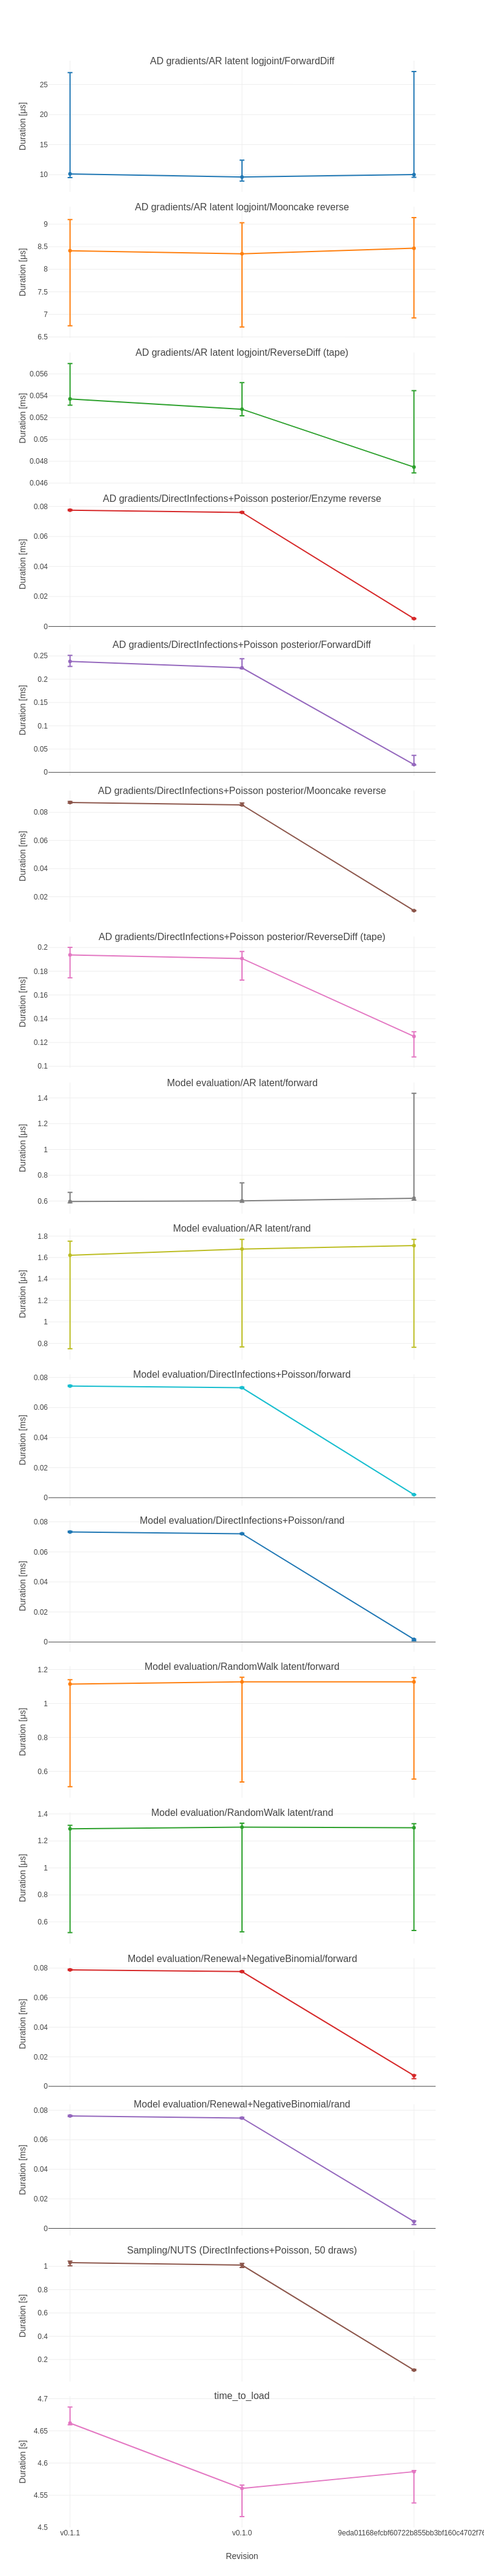
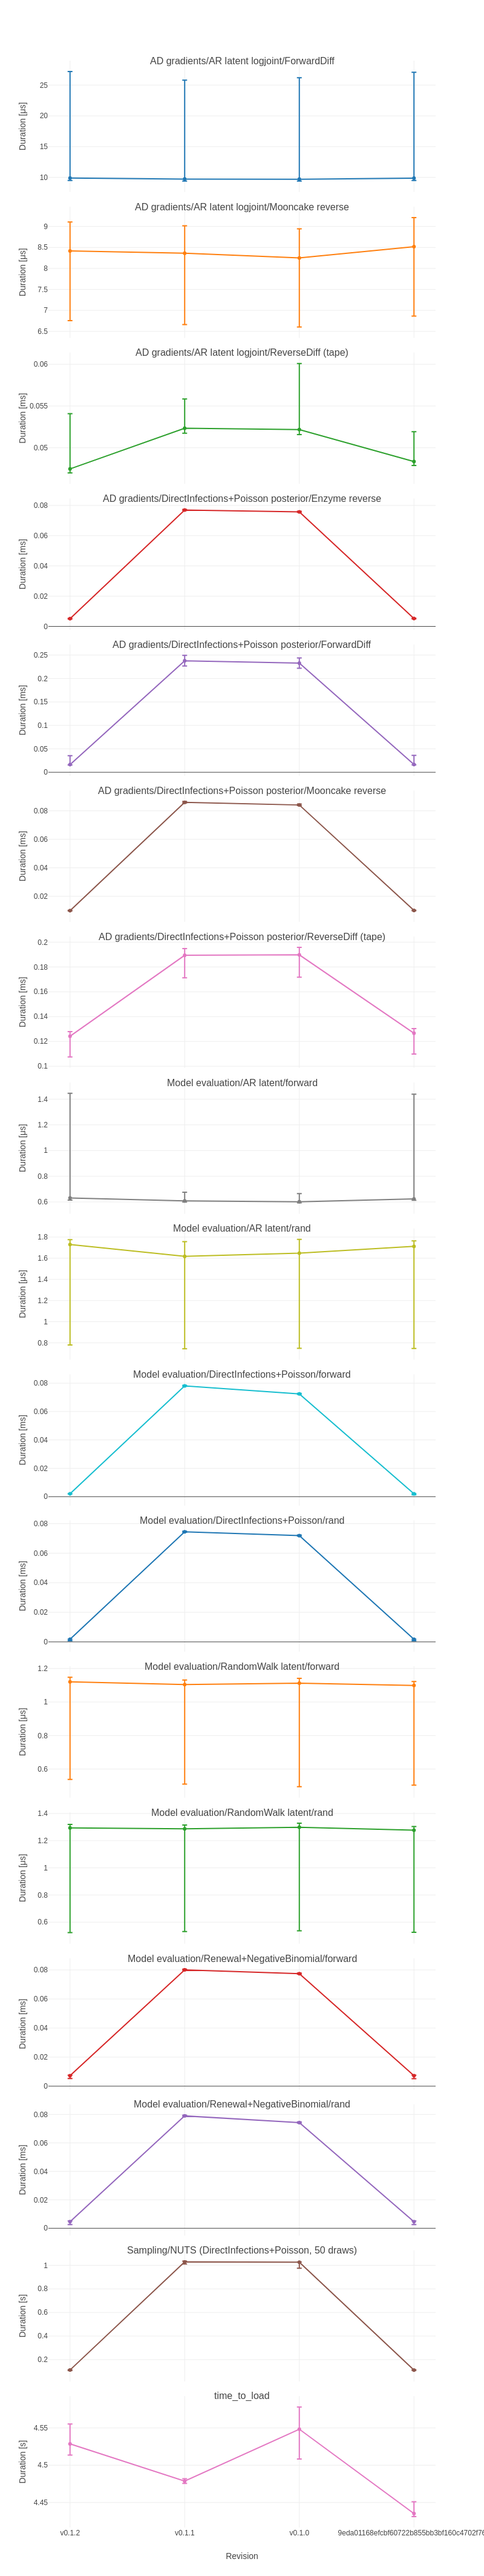
Deploying to benchmarks from @ EpiAware/ComposableTuringIDModels.jl@9eda01168efcbf60722b855bb3bf160c4702f765 🚀

diff --git a/history/table.md b/history/table.md
@@ -1,40 +1,40 @@
-|                                                                    | v0.1.1              | v0.1.0              | 9eda01168efcbf...  |
-|:-------------------------------------------------------------------|:-------------------:|:-------------------:|:------------------:|
-| AD gradients/AR latent logjoint/ForwardDiff                        | 10.1 ± 17 μs        | 9.61 ± 3.5 μs       | 10 ± 18 μs         |
-| AD gradients/AR latent logjoint/Mooncake reverse                   | 8.41 ± 2.4 μs       | 8.34 ± 2.3 μs       | 8.47 ± 2.2 μs      |
-| AD gradients/AR latent logjoint/ReverseDiff (tape)                 | 0.0537 ± 0.0038 ms  | 0.0528 ± 0.003 ms   | 0.0475 ± 0.0075 ms |
-| AD gradients/DirectInfections+Poisson posterior/Enzyme reverse     | 0.0776 ± 0.00075 ms | 0.0761 ± 0.00076 ms | 5.23 ± 0.41 μs     |
-| AD gradients/DirectInfections+Poisson posterior/ForwardDiff        | 0.238 ± 0.024 ms    | 0.225 ± 0.021 ms    | 16.6 ± 20 μs       |
-| AD gradients/DirectInfections+Poisson posterior/Mooncake reverse   | 0.087 ± 0.0013 ms   | 0.0853 ± 0.0018 ms  | 10.1 ± 0.4 μs      |
-| AD gradients/DirectInfections+Poisson posterior/ReverseDiff (tape) | 0.194 ± 0.026 ms    | 0.191 ± 0.024 ms    | 0.125 ± 0.021 ms   |
-| Model evaluation/AR latent/forward                                 | 0.597 ± 0.081 μs    | 0.602 ± 0.15 μs     | 0.622 ± 0.83 μs    |
-| Model evaluation/AR latent/rand                                    | 1.62 ± 1 μs         | 1.68 ± 1 μs         | 1.71 ± 1 μs        |
-| Model evaluation/DirectInfections+Poisson/forward                  | 0.0743 ± 0.00084 ms | 0.0732 ± 0.0008 ms  | 2.04 ± 0.19 μs     |
-| Model evaluation/DirectInfections+Poisson/rand                     | 0.0732 ± 0.00079 ms | 0.072 ± 0.00069 ms  | 1.77 ± 0.95 μs     |
-| Model evaluation/RandomWalk latent/forward                         | 1.11 ± 0.63 μs      | 1.13 ± 0.62 μs      | 1.13 ± 0.6 μs      |
-| Model evaluation/RandomWalk latent/rand                            | 1.29 ± 0.8 μs       | 1.3 ± 0.81 μs       | 1.3 ± 0.79 μs      |
-| Model evaluation/Renewal+NegativeBinomial/forward                  | 0.0788 ± 0.00082 ms | 0.0776 ± 0.00081 ms | 7.24 ± 2.4 μs      |
-| Model evaluation/Renewal+NegativeBinomial/rand                     | 0.0761 ± 0.00091 ms | 0.0747 ± 0.00088 ms | 4.64 ± 2.5 μs      |
-| Sampling/NUTS (DirectInfections+Poisson, 50 draws)                 | 1.03 ± 0.04 s       | 1.01 ± 0.035 s      | 0.11 ± 0.011 s     |
-| time_to_load                                                       | 4.66 ± 0.027 s      | 4.56 ± 0.049 s      | 4.59 ± 0.05 s      |
+|                                                                    | v0.1.2             | v0.1.1              | v0.1.0              | 9eda01168efcbf... |
+|:-------------------------------------------------------------------|:------------------:|:-------------------:|:-------------------:|:-----------------:|
+| AD gradients/AR latent logjoint/ForwardDiff                        | 9.88 ± 18 μs       | 9.72 ± 16 μs        | 9.7 ± 17 μs         | 9.87 ± 18 μs      |
+| AD gradients/AR latent logjoint/Mooncake reverse                   | 8.42 ± 2.4 μs      | 8.36 ± 2.4 μs       | 8.25 ± 2.3 μs       | 8.52 ± 2.4 μs     |
+| AD gradients/AR latent logjoint/ReverseDiff (tape)                 | 0.0475 ± 0.0071 ms | 0.0523 ± 0.0041 ms  | 0.0522 ± 0.0085 ms  | 0.0484 ± 0.004 ms |
+| AD gradients/DirectInfections+Poisson posterior/Enzyme reverse     | 5.12 ± 0.41 μs     | 0.077 ± 0.00064 ms  | 0.0757 ± 0.00065 ms | 5.22 ± 0.41 μs    |
+| AD gradients/DirectInfections+Poisson posterior/ForwardDiff        | 16.4 ± 20 μs       | 0.238 ± 0.023 ms    | 0.233 ± 0.022 ms    | 16.6 ± 20 μs      |
+| AD gradients/DirectInfections+Poisson posterior/Mooncake reverse   | 9.9 ± 0.37 μs      | 0.0859 ± 0.0011 ms  | 0.0841 ± 0.0011 ms  | 10 ± 0.35 μs      |
+| AD gradients/DirectInfections+Poisson posterior/ReverseDiff (tape) | 0.124 ± 0.02 ms    | 0.189 ± 0.024 ms    | 0.19 ± 0.024 ms     | 0.127 ± 0.021 ms  |
+| Model evaluation/AR latent/forward                                 | 0.631 ± 0.83 μs    | 0.608 ± 0.076 μs    | 0.602 ± 0.072 μs    | 0.624 ± 0.83 μs   |
+| Model evaluation/AR latent/rand                                    | 1.73 ± 1 μs        | 1.62 ± 1 μs         | 1.65 ± 1 μs         | 1.71 ± 1 μs       |
+| Model evaluation/DirectInfections+Poisson/forward                  | 2.02 ± 0.18 μs     | 0.0781 ± 0.00076 ms | 0.0725 ± 0.00068 ms | 2.02 ± 0.79 μs    |
+| Model evaluation/DirectInfections+Poisson/rand                     | 1.76 ± 1 μs        | 0.0744 ± 0.00066 ms | 0.0718 ± 0.00076 ms | 1.75 ± 1 μs       |
+| Model evaluation/RandomWalk latent/forward                         | 1.12 ± 0.61 μs     | 1.1 ± 0.62 μs       | 1.11 ± 0.65 μs      | 1.1 ± 0.62 μs     |
+| Model evaluation/RandomWalk latent/rand                            | 1.29 ± 0.8 μs      | 1.29 ± 0.78 μs      | 1.3 ± 0.79 μs       | 1.28 ± 0.78 μs    |
+| Model evaluation/Renewal+NegativeBinomial/forward                  | 7.2 ± 2.3 μs       | 0.0801 ± 0.0008 ms  | 0.0774 ± 0.00076 ms | 7.2 ± 2.4 μs      |
+| Model evaluation/Renewal+NegativeBinomial/rand                     | 4.64 ± 2.6 μs      | 0.079 ± 0.00089 ms  | 0.0742 ± 0.00087 ms | 4.61 ± 2.5 μs     |
+| Sampling/NUTS (DirectInfections+Poisson, 50 draws)                 | 0.112 ± 0.0072 s   | 1.03 ± 0.025 s      | 1.03 ± 0.052 s      | 0.111 ± 0.0052 s  |
+| time_to_load                                                       | 4.53 ± 0.042 s     | 4.48 ± 0.0064 s     | 4.55 ± 0.07 s       | 4.44 ± 0.02 s     |
 
-|                                                                    | v0.1.1                    | v0.1.0                    | 9eda01168efcbf...         |
-|:-------------------------------------------------------------------|:-------------------------:|:-------------------------:|:-------------------------:|
-| AD gradients/AR latent logjoint/ForwardDiff                        | 0.056 k allocs: 0.0508 MB | 0.056 k allocs: 0.0508 MB | 0.059 k allocs: 0.0512 MB |
-| AD gradients/AR latent logjoint/Mooncake reverse                   | 0.04 k allocs: 4.98 kB    | 0.04 k allocs: 4.98 kB    | 0.047 k allocs: 5.2 kB    |
-| AD gradients/AR latent logjoint/ReverseDiff (tape)                 | 0.775 k allocs: 0.0319 MB | 0.775 k allocs: 0.0319 MB | 0.738 k allocs: 30.6 kB   |
-| AD gradients/DirectInfections+Poisson posterior/Enzyme reverse     | 0.242 k allocs: 12.3 kB   | 0.242 k allocs: 12.3 kB   | 0.034 k allocs: 4.36 kB   |
-| AD gradients/DirectInfections+Poisson posterior/ForwardDiff        | 0.68 k allocs: 0.0835 MB  | 0.68 k allocs: 0.0835 MB  | 0.068 k allocs: 0.0591 MB |
-| AD gradients/DirectInfections+Poisson posterior/Mooncake reverse   | 0.32 k allocs: 15.5 kB    | 0.32 k allocs: 15.5 kB    | 0.042 k allocs: 5.39 kB   |
-| AD gradients/DirectInfections+Poisson posterior/ReverseDiff (tape) | 1.65 k allocs: 0.0654 MB  | 1.65 k allocs: 0.0654 MB  | 1.7 k allocs: 0.0643 MB   |
-| Model evaluation/AR latent/forward                                 | 20  allocs: 2.41 kB       | 20  allocs: 2.41 kB       | 21  allocs: 2.44 kB       |
-| Model evaluation/AR latent/rand                                    | 22  allocs: 2.83 kB       | 22  allocs: 2.83 kB       | 23  allocs: 2.86 kB       |
-| Model evaluation/DirectInfections+Poisson/forward                  | 0.35 k allocs: 15.8 kB    | 0.35 k allocs: 15.8 kB    | 23  allocs: 2.52 kB       |
-| Model evaluation/DirectInfections+Poisson/rand                     | 0.349 k allocs: 15.1 kB   | 0.349 k allocs: 15.1 kB   | 20  allocs: 2.67 kB       |
-| Model evaluation/RandomWalk latent/forward                         | 16  allocs: 1.83 kB       | 16  allocs: 1.83 kB       | 17  allocs: 1.86 kB       |
-| Model evaluation/RandomWalk latent/rand                            | 15  allocs: 2.05 kB       | 15  allocs: 2.05 kB       | 16  allocs: 2.08 kB       |
-| Model evaluation/Renewal+NegativeBinomial/forward                  | 0.57 k allocs: 23.7 kB    | 0.57 k allocs: 23.7 kB    | 0.153 k allocs: 8.28 kB   |
-| Model evaluation/Renewal+NegativeBinomial/rand                     | 0.567 k allocs: 23 kB     | 0.567 k allocs: 23 kB     | 0.148 k allocs: 8.38 kB   |
-| Sampling/NUTS (DirectInfections+Poisson, 50 draws)                 | 2.99 M allocs: 0.371 GB   | 2.99 M allocs: 0.371 GB   | 0.479 M allocs: 0.269 GB  |
-| time_to_load                                                       | 0.149 k allocs: 11.2 kB   | 0.149 k allocs: 11.2 kB   | 0.149 k allocs: 11.2 kB   |
+|                                                                    | v0.1.2                    | v0.1.1                    | v0.1.0                    | 9eda01168efcbf...         |
+|:-------------------------------------------------------------------|:-------------------------:|:-------------------------:|:-------------------------:|:-------------------------:|
+| AD gradients/AR latent logjoint/ForwardDiff                        | 0.059 k allocs: 0.0512 MB | 0.056 k allocs: 0.0508 MB | 0.056 k allocs: 0.0508 MB | 0.059 k allocs: 0.0512 MB |
+| AD gradients/AR latent logjoint/Mooncake reverse                   | 0.047 k allocs: 5.2 kB    | 0.04 k allocs: 4.98 kB    | 0.04 k allocs: 4.98 kB    | 0.047 k allocs: 5.2 kB    |
+| AD gradients/AR latent logjoint/ReverseDiff (tape)                 | 0.738 k allocs: 30.6 kB   | 0.775 k allocs: 0.0319 MB | 0.775 k allocs: 0.0319 MB | 0.738 k allocs: 30.6 kB   |
+| AD gradients/DirectInfections+Poisson posterior/Enzyme reverse     | 0.034 k allocs: 4.36 kB   | 0.242 k allocs: 12.3 kB   | 0.242 k allocs: 12.3 kB   | 0.034 k allocs: 4.36 kB   |
+| AD gradients/DirectInfections+Poisson posterior/ForwardDiff        | 0.068 k allocs: 0.0591 MB | 0.68 k allocs: 0.0835 MB  | 0.68 k allocs: 0.0835 MB  | 0.068 k allocs: 0.0591 MB |
+| AD gradients/DirectInfections+Poisson posterior/Mooncake reverse   | 0.042 k allocs: 5.39 kB   | 0.32 k allocs: 15.5 kB    | 0.32 k allocs: 15.5 kB    | 0.042 k allocs: 5.39 kB   |
+| AD gradients/DirectInfections+Poisson posterior/ReverseDiff (tape) | 1.7 k allocs: 0.0643 MB   | 1.65 k allocs: 0.0654 MB  | 1.65 k allocs: 0.0654 MB  | 1.7 k allocs: 0.0643 MB   |
+| Model evaluation/AR latent/forward                                 | 21  allocs: 2.44 kB       | 20  allocs: 2.41 kB       | 20  allocs: 2.41 kB       | 21  allocs: 2.44 kB       |
+| Model evaluation/AR latent/rand                                    | 23  allocs: 2.86 kB       | 22  allocs: 2.83 kB       | 22  allocs: 2.83 kB       | 23  allocs: 2.86 kB       |
+| Model evaluation/DirectInfections+Poisson/forward                  | 23  allocs: 2.52 kB       | 0.35 k allocs: 15.8 kB    | 0.35 k allocs: 15.8 kB    | 23  allocs: 2.52 kB       |
+| Model evaluation/DirectInfections+Poisson/rand                     | 20  allocs: 2.67 kB       | 0.349 k allocs: 15.1 kB   | 0.349 k allocs: 15.1 kB   | 20  allocs: 2.67 kB       |
+| Model evaluation/RandomWalk latent/forward                         | 17  allocs: 1.86 kB       | 16  allocs: 1.83 kB       | 16  allocs: 1.83 kB       | 17  allocs: 1.86 kB       |
+| Model evaluation/RandomWalk latent/rand                            | 16  allocs: 2.08 kB       | 15  allocs: 2.05 kB       | 15  allocs: 2.05 kB       | 16  allocs: 2.08 kB       |
+| Model evaluation/Renewal+NegativeBinomial/forward                  | 0.153 k allocs: 8.28 kB   | 0.57 k allocs: 23.7 kB    | 0.57 k allocs: 23.7 kB    | 0.153 k allocs: 8.28 kB   |
+| Model evaluation/Renewal+NegativeBinomial/rand                     | 0.148 k allocs: 8.38 kB   | 0.567 k allocs: 23 kB     | 0.567 k allocs: 23 kB     | 0.148 k allocs: 8.38 kB   |
+| Sampling/NUTS (DirectInfections+Poisson, 50 draws)                 | 0.479 M allocs: 0.269 GB  | 2.99 M allocs: 0.371 GB   | 2.99 M allocs: 0.371 GB   | 0.479 M allocs: 0.269 GB  |
+| time_to_load                                                       | 0.149 k allocs: 11.2 kB   | 0.149 k allocs: 11.2 kB   | 0.149 k allocs: 11.2 kB   | 0.149 k allocs: 11.2 kB   |
 

diff --git a/history/README.md b/history/README.md
@@ -1,6 +1,6 @@
 # ComposableTuringIDModels.jl benchmark history
 
-Revisions: v0.1.1,v0.1.0,9eda01168efcbf60722b855bb3bf160c4702f765
+Revisions: v0.1.2,v0.1.1,v0.1.0,9eda01168efcbf60722b855bb3bf160c4702f765
 
 See `table.md` for the ratio summary and the PNG
 files in this folder for per-benchmark timelines.
